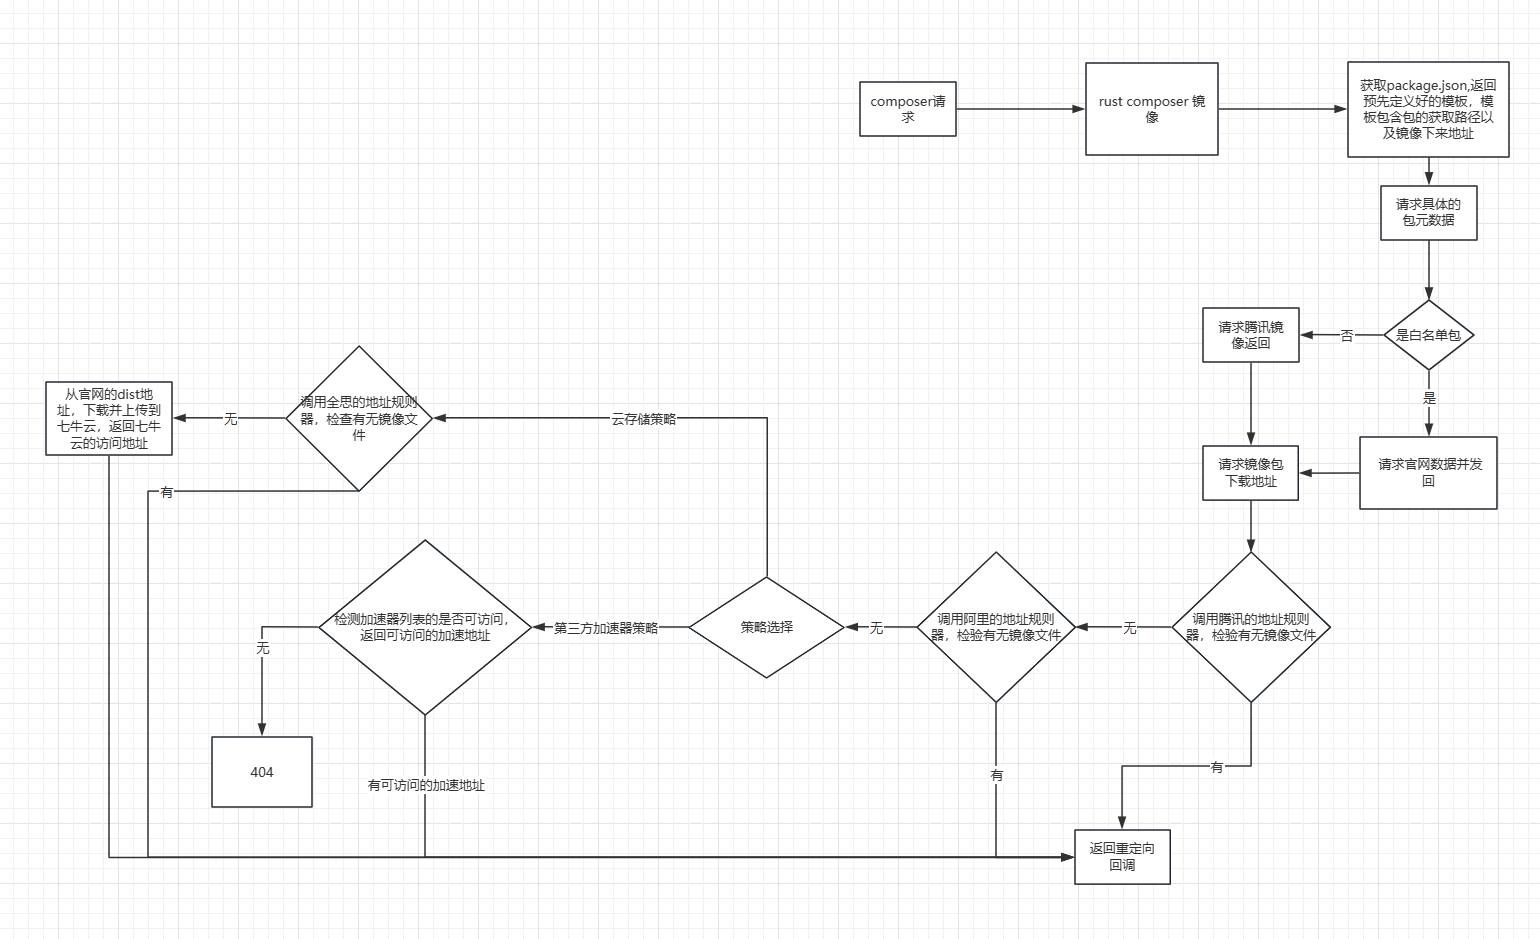
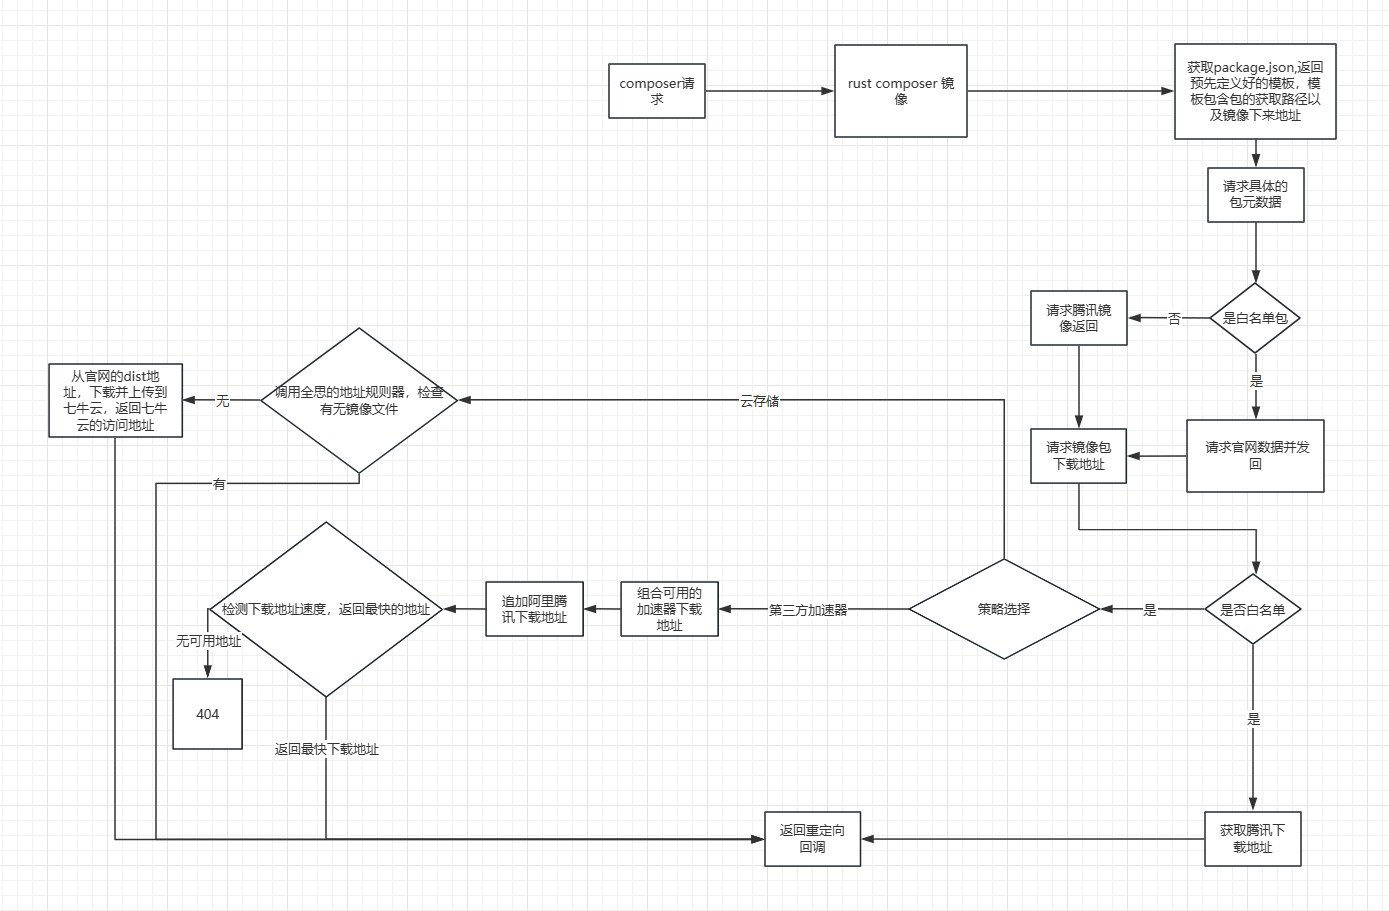
优化第三方加速策略，增加加速网址的网速检测，自动选择网速最快的地址

diff --git a/src/main.rs b/src/main.rs
@@ -6,7 +6,7 @@ use axum::{
     Extension, Router,
 };
 use glob::Pattern;
-use std::sync::Arc;
+use std::{sync::Arc};
 
 use dotenv::dotenv;
 use reqwest::StatusCode;
@@ -26,12 +26,9 @@ use crate::mirrors::tencent::Tencent;
 use crate::package::Package;
 
 #[derive(Clone)]
-struct Config<'a> {
+struct Config {
     packages: String,
-    package_white_list: Vec<String>,
-    tenecnt_mirror: Tencent<'a>,
-    aliyun_mirror: Aliyun<'a>,
-    packagist_mirror: Packagist<'a>,
+    package_white_list: Vec<String>
 }
 
 #[tokio::main]
@@ -54,13 +51,9 @@ async fn main() {
 
     let config = Arc::new(Config {
         packages,
-        tenecnt_mirror: Tencent::new(),
-        aliyun_mirror: Aliyun::new(),
-        packagist_mirror: Packagist::new(),
-        package_white_list,
+        package_white_list
     });
 
-    // build our application with a single route
     let app = Router::new()
         .route("/p2/*package_path", get(package_meta))
         .route(
@@ -70,7 +63,6 @@ async fn main() {
         .route("/packages.json", get(packages_meta))
         .layer(Extension(config));
 
-    // run it with hyper on localhost:3000
     let listen = format!("0.0.0.0:{}", env::var("PORT").unwrap());
     axum::Server::bind(&listen.parse().unwrap())
         .serve(app.into_make_service())
@@ -80,24 +72,35 @@ async fn main() {
 
 async fn dist_dispatcher<'a>(
     Path((package1, package2, version, reference_and_type)): Path<(String, String, String, String)>,
-    config: Extension<Arc<Config<'a>>>,
+    config: Extension<Arc<Config>>,
 ) -> Response {
     let reference = reference_and_type.split(".").collect::<Vec<&str>>()[0];
     let dist_type = reference_and_type.split(".").collect::<Vec<&str>>()[1];
     let package = Package::new(&package1, &package2);
     let dist = Dist::new(&package, &version, reference, dist_type);
 
-    match config.tenecnt_mirror.check_dist(&dist).await {
-        true => config.tenecnt_mirror.make_dist_response(&dist).await,
-        false => match config.aliyun_mirror.check_dist(&dist).await {
-            true => config.aliyun_mirror.make_dist_response(&dist).await,
-            false => config.packagist_mirror.make_dist_response(&dist).await,
-        },
+    let packagist_mirror = Packagist::new();
+    let tenecnt_mirror = Tencent::new();
+    let aliyun_mirror = Aliyun::new();
+
+    match check_package_in_white_list(&format!("{}/{}", package1, package2), &config.package_white_list) {
+        true => {
+            packagist_mirror.make_dist_response(&dist).await
+        }
+        false => {
+            match tenecnt_mirror.check_dist(&dist).await {
+                true => tenecnt_mirror.make_dist_response(&dist).await,
+                false => match aliyun_mirror.check_dist(&dist).await {
+                    true => aliyun_mirror.make_dist_response(&dist).await,
+                    false => packagist_mirror.make_dist_response(&dist).await,
+                }
+            }
+        }
     }
 }
 
 async fn packages_meta<'a>(
-    config: Extension<Arc<Config<'a>>>,
+    config: Extension<Arc<Config>>,
 ) -> (StatusCode, HeaderMap, Html<String>) {
     let mut headers = HeaderMap::new();
     headers.insert(
@@ -110,7 +113,7 @@ async fn packages_meta<'a>(
 
 async fn package_meta<'a>(
     Path(package_path): Path<String>,
-    config: Extension<Arc<Config<'a>>>,
+    config: Extension<Arc<Config>>,
 ) -> Response {
     let headers = HeaderMap::new();
     if !package_path.ends_with(".json") {
@@ -123,14 +126,12 @@ async fn package_meta<'a>(
 
     match check_package_in_white_list(&package_combine, &config.package_white_list) {
         true => {
-            config
-                .packagist_mirror
+            Packagist::new()
                 .make_package_response(&Package::new(vendor, package))
                 .await
         }
         false => {
-            config
-                .tenecnt_mirror
+            Tencent::new()
                 .make_package_response(&Package::new(vendor, package))
                 .await
         }

diff --git a/src/mirrors/packagist/packagist_strategy/cache_third_site.rs b/src/mirrors/packagist/packagist_strategy/cache_third_site.rs
@@ -6,7 +6,10 @@ use reqwest::StatusCode;
 use std::env;
 use serde_json::Value;
 
-use crate::dist::Dist;
+use tokio::task;
+use tokio::select;
+
+use crate::{dist::Dist, mirrors::tencent::Tencent, mirrors::aliyun::Aliyun};
 use crate::request_helper;
 
 pub struct CacheThirdSiteStrategy<'a> {
@@ -66,19 +69,44 @@ impl<'a> CacheThirdSiteStrategy<'a> {
 
 
     pub async fn run(&self) -> Response {
+        let mut urls = Vec::new();
+        let source_url = self.get_tag_url().await;
         for site in self.cache_site_list.iter() {
-            let url = format!("{}/{}", site, self.get_tag_url().await);
-            let response = request_helper::head(&url).await;
+            let url = format!("{}/{}", site, source_url);
+            urls.push(url);
+        }
 
-            match response {
-                Ok(response) => {
-                    if response.status() == StatusCode::OK {
-                        return request_helper::redirect(&url);
+        let tencent_mirror = Tencent::new();
+        urls.push(tencent_mirror.get_dist_url(&self.dist_url_params));
+
+        let aliyun_mirror = Aliyun::new();
+        urls.push(aliyun_mirror.get_dist_url(&self.dist_url_params));
+        
+        let mut tasks = Vec::new();
+        for url in urls {
+            let task = task::spawn(request_helper::speed_test(url));
+            tasks.push(task);
+        }
+
+        let res;
+        loop{
+            select!(
+                result = futures::future::select_all(tasks) => {
+                    let (finished_result, _, remaining_tasks) = result;
+                    if remaining_tasks.len() == 0 {
+                        res = (StatusCode::NOT_FOUND, HeaderMap::new(), "").into_response();
+                        break;
+                    }
+
+                    tasks = remaining_tasks;
+
+                    if let Ok(Some((url, _))) = finished_result {
+                        res = request_helper::redirect(&url);
+                        break;
                     }
                 }
-                Err(_) => {}
-            }
+            )
         }
-        (StatusCode::NOT_FOUND, HeaderMap::new(), "").into_response()
+        res
     }
 }

diff --git a/src/request_helper.rs b/src/request_helper.rs
@@ -2,6 +2,7 @@ use axum::{
     http::{HeaderMap, HeaderName, HeaderValue},
     response::{IntoResponse, Response},
 };
+use futures::StreamExt;
 use reqwest::{Client, Response as ReqwestResponse, StatusCode};
 
 pub fn create_client() -> Client {
@@ -20,6 +21,52 @@ pub async fn head(url: &str) -> Result<ReqwestResponse, reqwest::Error> {
     let client = create_client();
 
     client.head(url).send().await
+}
+
+pub async fn speed_test(url: String) -> Option<(String, u128)> {
+
+    let response = head(&url).await;
+    match response {
+        Ok(response) => {
+            if response.status() == StatusCode::OK {
+                let req_response: ReqwestResponse = get(&url).await;
+
+                let start = std::time::Instant::now();
+                let mut buffer = Vec::new();
+                let bytes_read = async {
+                    let mut stream = req_response.bytes_stream();
+                    loop {
+                        let item = match stream.next().await {
+                            Some(item) => item,
+                            None => break,
+                        };
+                        let item = match item {
+                            Ok(item) => item,
+                            Err(_) => break,
+                        };
+                        if item.len() == 0 {
+                            break;
+                        }
+                        buffer.extend(item);
+
+                        if buffer.len() > 1024 * 80 {
+                            break;
+                        }
+                    }
+                    Ok::<_, reqwest::Error>(buffer)
+                };
+                bytes_read.await.unwrap();
+                let end = std::time::Instant::now();
+                Some((url, (end - start).as_millis()))
+            } else {
+                None
+            }
+            
+        }
+        Err(_) => None,
+    }
+
+    
 }
 
 pub async fn proxy(url: &str) -> Response {

diff --git a/src/mirrors/tencent.rs b/src/mirrors/tencent.rs
@@ -21,7 +21,7 @@ impl<'a> Tencent<'a> {
         }
     }
 
-    fn get_dist_url(&self, dist: &Dist) -> String {
+    pub fn get_dist_url(&self, dist: &Dist) -> String {
         let combine = format!("{}/{}", dist.package.full_name, dist.version).replace("/", "-");
         self.dist_url_template
             .replace("%package%", &dist.package.full_name)

diff --git a/src/mirrors/aliyun.rs b/src/mirrors/aliyun.rs
@@ -22,7 +22,7 @@ impl<'a> Aliyun<'a> {
         }
     }
 
-    fn get_dist_url(&self, dist: &Dist) -> String {
+    pub fn get_dist_url(&self, dist: &Dist) -> String {
         self.dist_url_template
             .replace("%package%", &dist.package.full_name)
             .replace("%reference%", &dist.reference)

diff --git a/README.md b/README.md
@@ -39,7 +39,7 @@ CACHE_SITE_LIST=https://gh.api.99988866.xyz,https://gh.con.sh,https://gh.ddlc.to
 
 ##### 策略2
 
-该策略无需任何额外的投入，只需准备一台境内服务器，将github加速插件里的加速地址设置上去即可自动检测可用的加速地址，并返回。适合小公司或者个人使用。
+该策略无需任何额外的投入，只需准备一台境内服务器，将github加速插件里的加速地址设置上去即可自动检测最快的加速地址，并返回。适合小公司或者个人使用。
 
 
 #### 程序流程
